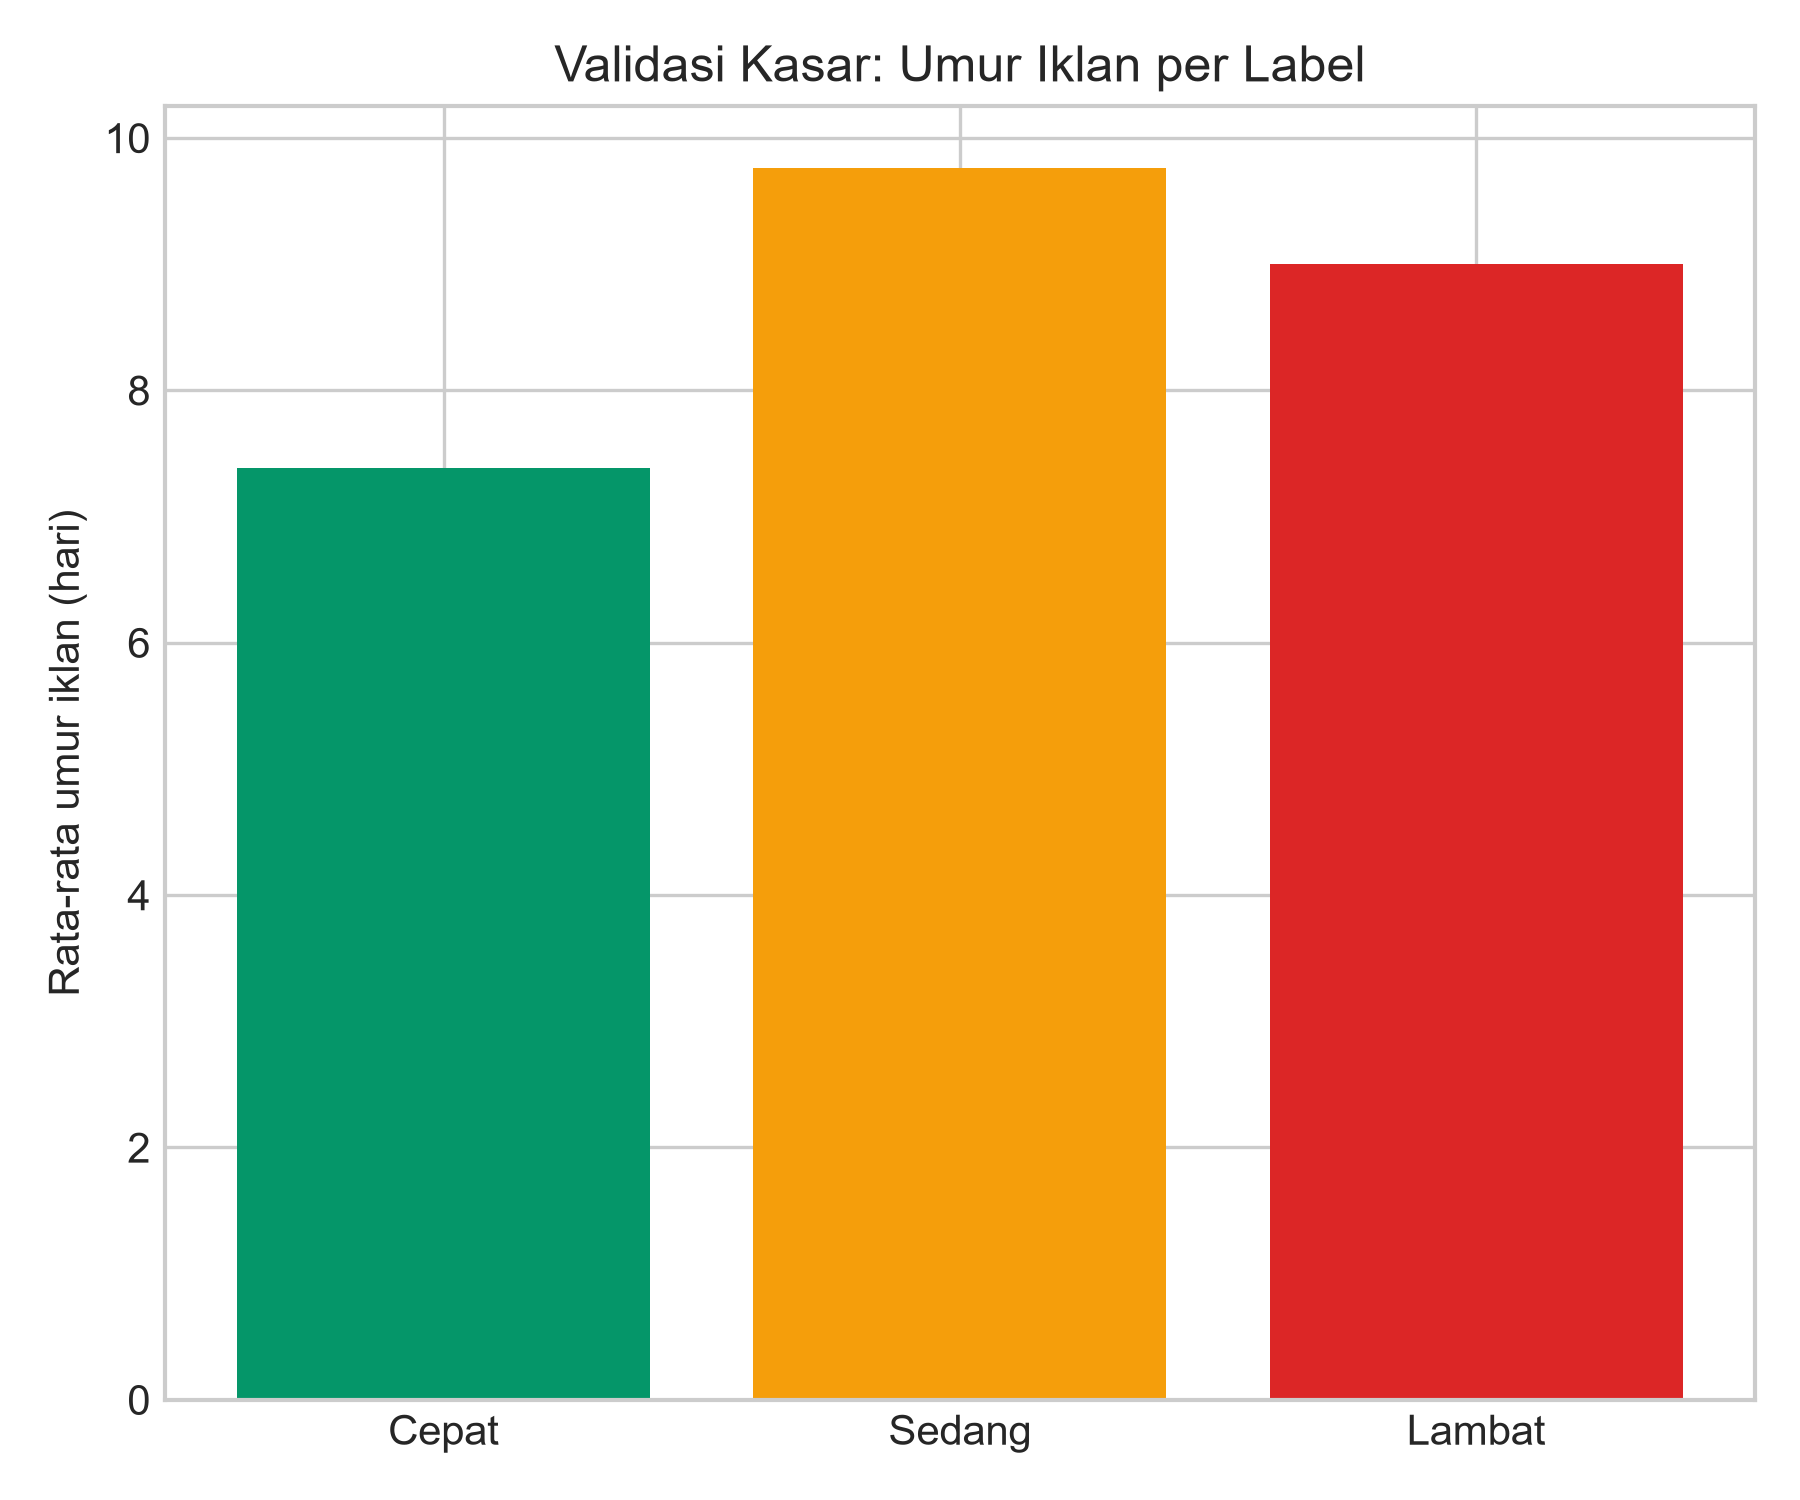
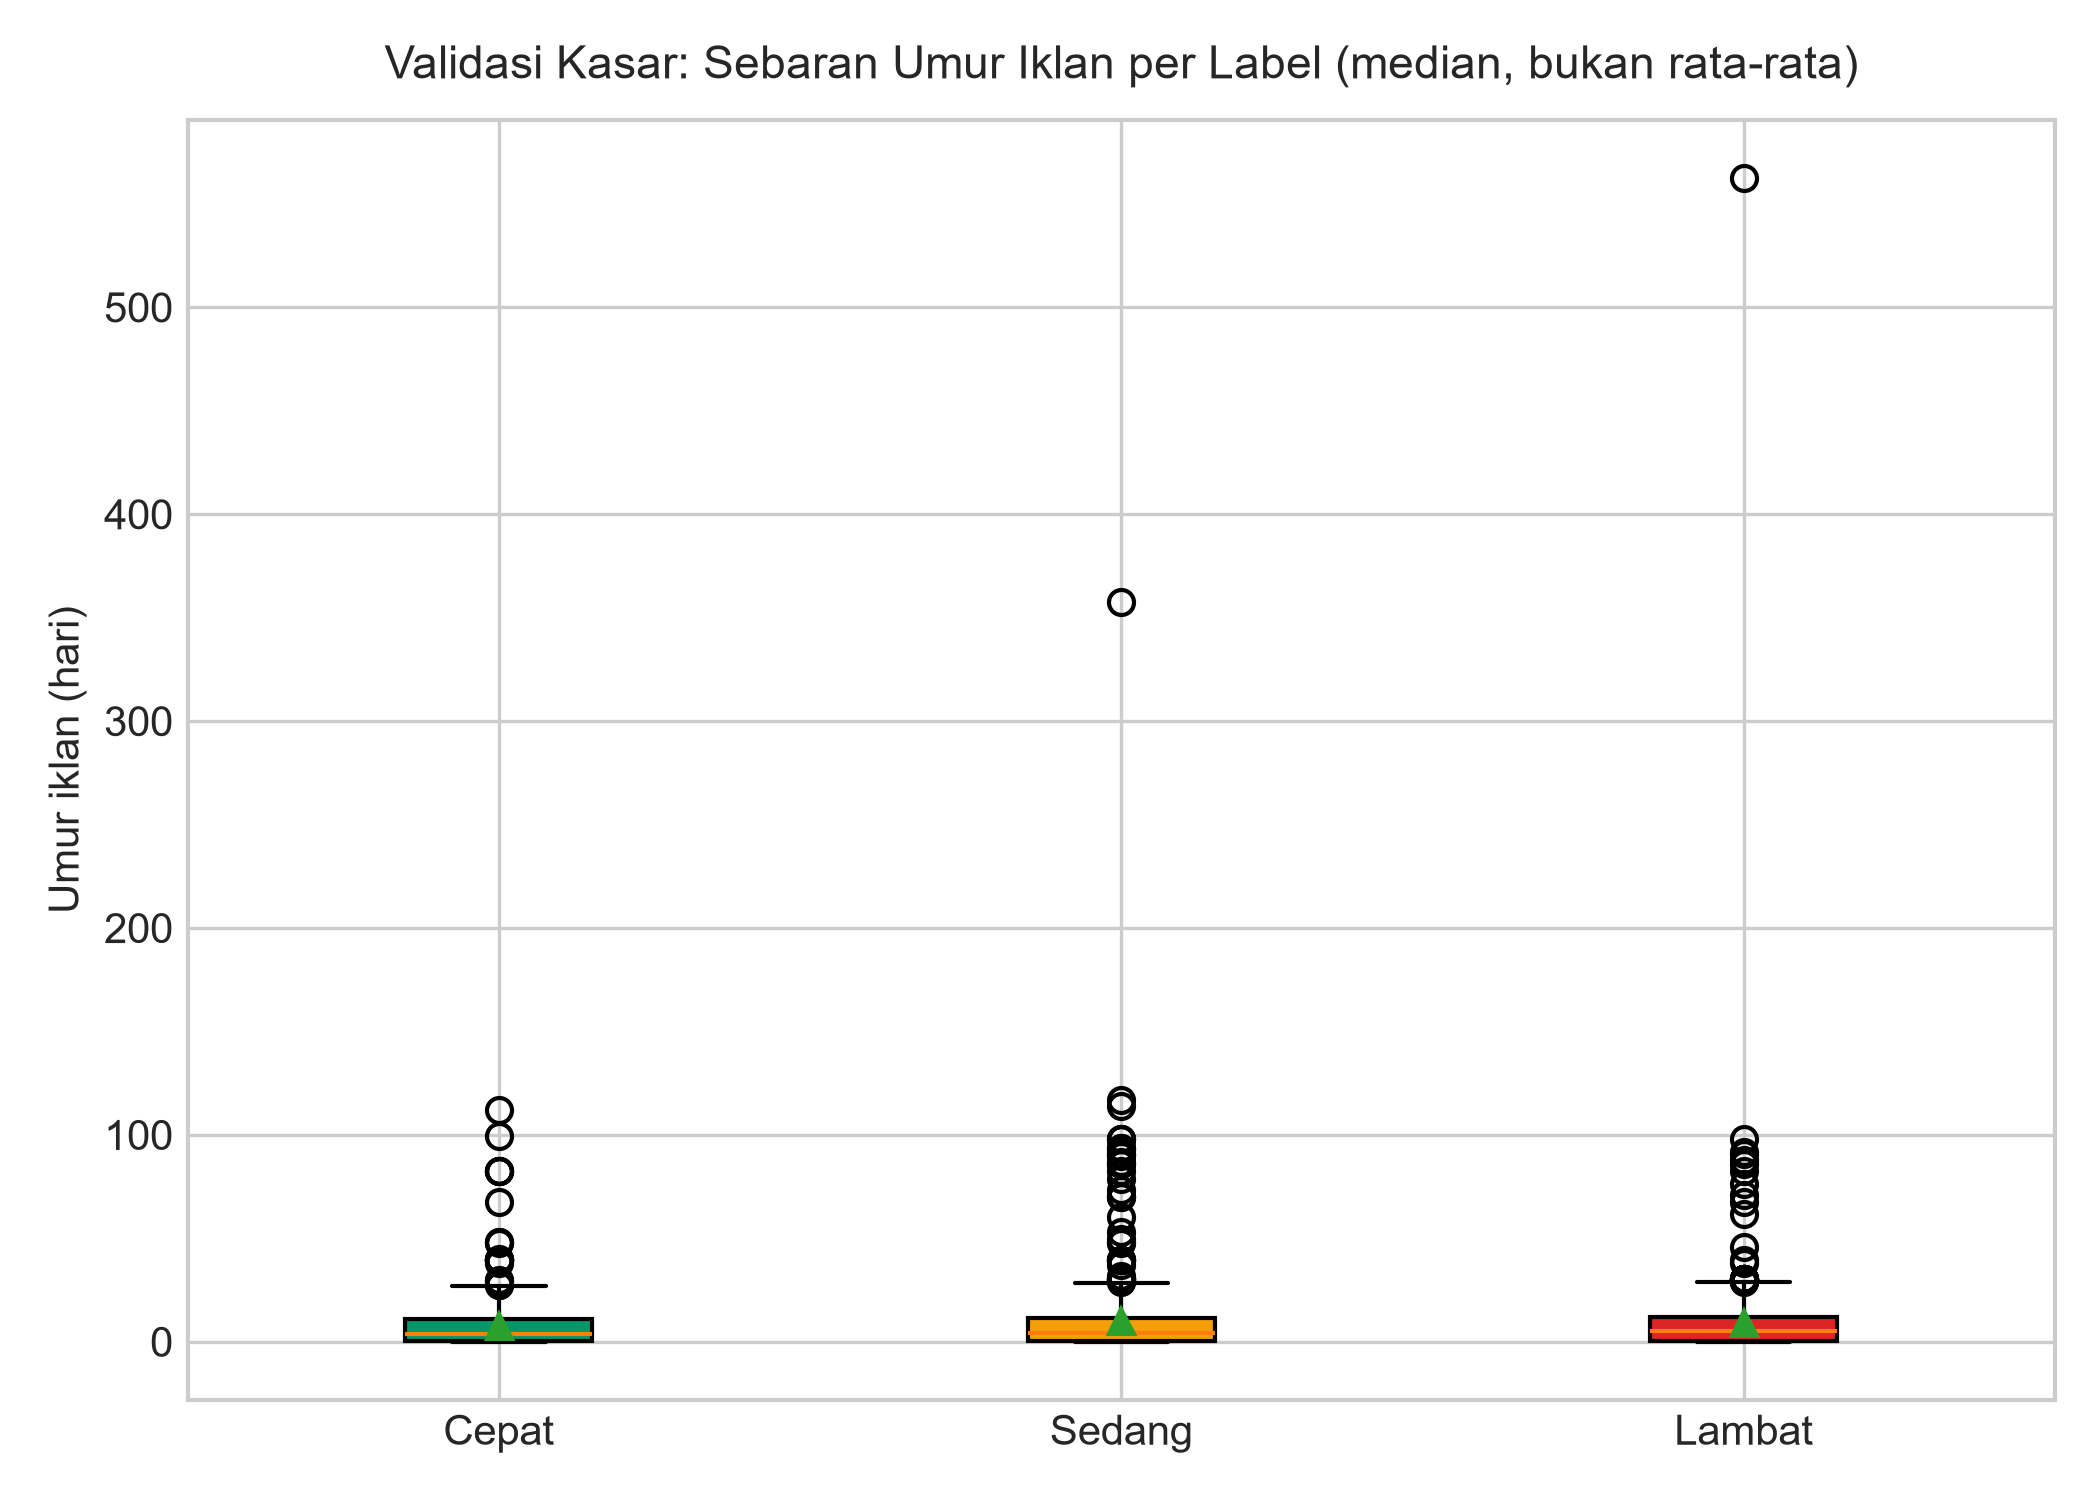
penambahan rmse dan mae ke train model

diff --git a/train_model_klasifikasi.py b/train_model_klasifikasi.py
@@ -34,9 +34,11 @@ from sklearn.compose import ColumnTransformer, TransformedTargetRegressor
 from sklearn.pipeline import Pipeline
 from sklearn.linear_model import LogisticRegression
 from sklearn.tree import DecisionTreeClassifier
+from sklearn.base import clone
 from sklearn.ensemble import GradientBoostingRegressor, RandomForestClassifier, GradientBoostingClassifier
 from sklearn.metrics import (accuracy_score, f1_score, precision_score, recall_score,
-                             confusion_matrix, classification_report, mean_absolute_percentage_error)
+                             confusion_matrix, classification_report, mean_absolute_percentage_error,
+                             mean_squared_error, mean_absolute_error, root_mean_squared_error)
 
 from processing import AMBANG_KEYAKINAN_SAMPEL, hitung_harga_wajar_fallback, klip_deviasi, DEVIASI_MIN, DEVIASI_MAX
 
@@ -92,7 +94,13 @@ df_model['sumber_harga_wajar'] = sumber
 
 mape_model = mean_absolute_percentage_error(df_model['harga'], df_model['harga_wajar_model']) * 100
 mape_final = mean_absolute_percentage_error(df_model['harga'], df_model['harga_wajar_final']) * 100
+mse_final = mean_squared_error(df_model['harga'], df_model['harga_wajar_final'])
+rmse_final = root_mean_squared_error(df_model['harga'], df_model['harga_wajar_final'])
+mae_final = mean_absolute_error(df_model['harga'], df_model['harga_wajar_final'])
 print(f"Galat rata-rata (MAPE) harga wajar: hanya model ML {mape_model:.1f}% -> model+fallback {mape_final:.1f}%")
+print(f"MAE  harga wajar (model+fallback) : Rp {mae_final:,.0f}")
+print(f"MSE  harga wajar (model+fallback) : {mse_final:,.0f}  (satuan Rupiah^2, sulit diinterpretasi langsung)")
+print(f"RMSE harga wajar (model+fallback) : Rp {rmse_final:,.0f}")
 print(df_model['sumber_harga_wajar'].value_counts().to_string())
 
 regresi_final = buat_regresor().fit(df_model[fitur_harga], df_model['harga'])
@@ -114,6 +122,12 @@ turun = ((df_model['status_likuiditas'] == "Cepat") & (df_model['km_per_tahun'] 
          & (df_model['ada_garansi'] == 'Tidak'))
 df_model.loc[turun, 'status_likuiditas'] = "Sedang"
 print(df_model['status_likuiditas'].value_counts().to_string())
+
+print("\n[CATATAN SIRKULARITAS] Label di atas dibentuk DARI deviasi_persen (+ penyesuaian "
+      "km/garansi). Karena deviasi_persen nanti juga dipakai sbg fitur classifier, akurasi "
+      "tinggi sebagian besar wajar terjadi (classifier menghafal ambang tertile sendiri), "
+      "BUKAN otomatis bukti prediksi cocok dgn realita pasar. Lihat UJI ABLATION di Tahap 3 "
+      "utk kuantifikasi seberapa besar pengaruh fitur ini.")
 
 # ============================================================
 # TAHAP 3: CLASSIFIER (dengan uji monotonisitas terhadap harga)
@@ -188,13 +202,66 @@ best_pipe, y_pred_best = pipes[best_name]
 print(f"\nModel terpilih: {best_name} (F1-macro terbaik di antara model yang monoton & tidak overconfident)")
 print(classification_report(y_test, y_pred_best, labels=LABEL_ORDER))
 
+# --- RMSE/MSE berbasis peringkat (ordinal) utk classifier ---
+# Label Cepat/Sedang/Lambat punya urutan alami (0/1/2). Accuracy & F1
+# menganggap semua kesalahan sama berat; RMSE peringkat mengukur SEBERAPA
+# JAUH kesalahannya (menebak Sedang padahal Cepat = galat 1, menebak
+# Lambat padahal Cepat = galat 2).
+rank_aktual = y_test.map(RANK).values
+rank_pred = pd.Series(y_pred_best).map(RANK).values
+mse_ordinal = mean_squared_error(rank_aktual, rank_pred)
+rmse_ordinal = root_mean_squared_error(rank_aktual, rank_pred)
+mae_ordinal = mean_absolute_error(rank_aktual, rank_pred)
+print(f"\nEvaluasi ordinal classifier ({best_name}), peringkat Cepat=0, Sedang=1, Lambat=2:")
+print(f"  MAE  peringkat  : {mae_ordinal:.4f}")
+print(f"  MSE  peringkat  : {mse_ordinal:.4f}")
+print(f"  RMSE peringkat  : {rmse_ordinal:.4f}  (0 = sempurna; >1 berarti rata-rata meleset >1 kelas)")
+
+# --- [BARU] UJI ABLATION: model sama, TANPA fitur deviasi_persen ---
+print(f"\nUji ablation ({best_name}, TANPA fitur deviasi_persen):")
+fitur_tanpa_deviasi = fitur_harga  # = fitur_kls dikurangi deviasi_persen
+clf_ablation = clone(kandidat[best_name])  # clone: jangan timpa objek yang dipakai best_pipe
+pipe_ablation = Pipeline([('prep', buat_prep(numerical_cols)), ('clf', clf_ablation)])
+pipe_ablation.fit(X_train[fitur_tanpa_deviasi], y_train)
+yp_ablation = pipe_ablation.predict(X_test[fitur_tanpa_deviasi])
+acc_ablation = accuracy_score(y_test, yp_ablation)
+f1_ablation = f1_score(y_test, yp_ablation, average='macro')
+acc_lengkap = accuracy_score(y_test, y_pred_best)
+f1_lengkap = f1_score(y_test, y_pred_best, average='macro')
+selisih_acc = acc_lengkap - acc_ablation
+print(f"  Dengan deviasi_persen    : accuracy {acc_lengkap:.4f} | F1-macro {f1_lengkap:.4f}")
+print(f"  Tanpa deviasi_persen     : accuracy {acc_ablation:.4f} | F1-macro {f1_ablation:.4f}")
+print(f"  Selisih accuracy         : {selisih_acc:+.4f}")
+if selisih_acc > 0.15:
+    print("  -> Penurunan besar: performa selama ini didominasi deviasi_persen, sesuai dugaan sirkularitas di atas.")
+else:
+    print("  -> Penurunan kecil: fitur lain (merek/model/km/garansi) juga berkontribusi nyata.")
+
+# RMSE/MSE ordinal utk SEMUA kandidat classifier, sbg pembanding di grafik & CSV
+for h, (nm, (p, yp)) in zip(hasil, pipes.items()):
+    rp = pd.Series(yp).map(RANK).values
+    h["RMSE_Ordinal"] = root_mean_squared_error(rank_aktual, rp)
+    h["MSE_Ordinal"] = mean_squared_error(rank_aktual, rp)
+df_metrik = pd.DataFrame(hasil)
+
 with open("model_klasifikasi_likuiditas.pkl", "wb") as f:
     pickle.dump(best_pipe, f)
 baris_terpilih = df_metrik[df_metrik["Model"] == best_name].iloc[0]
 meta = {"q33": float(q33), "q67": float(q67), "label_order": LABEL_ORDER, "model_klasifikasi": best_name,
         "rerata_keyakinan_puncak": round(float(baris_terpilih["Rerata_Keyakinan_Puncak"]), 4),
         "fitur_harga": fitur_harga, "fitur_klasifikasi": fitur_kls, "ambang_sampel": AMBANG_KEYAKINAN_SAMPEL,
-        "mape_harga_wajar_pct": round(mape_final, 2), "tanggal_latih": datetime.now().strftime("%Y-%m-%d")}
+        "mape_harga_wajar_pct": round(mape_final, 2),
+        "mae_harga_wajar_rupiah": round(mae_final, 0),
+        "mse_harga_wajar": round(mse_final, 0),
+        "rmse_harga_wajar_rupiah": round(rmse_final, 0),
+        "rmse_ordinal_classifier": round(float(baris_terpilih["RMSE_Ordinal"]), 4),
+        "mse_ordinal_classifier": round(float(baris_terpilih["MSE_Ordinal"]), 4),
+        "ablation_akurasi_dengan_deviasi": round(float(acc_lengkap), 4),
+        "ablation_akurasi_tanpa_deviasi": round(float(acc_ablation), 4),
+        "ablation_selisih_akurasi": round(float(selisih_acc), 4),
+        "catatan": "Label status_likuiditas dibentuk dari deviasi_persen, yang juga dipakai sbg "
+                   "fitur classifier -- akurasi tinggi sebagian bersifat sirkular, lihat ablation_*.",
+        "tanggal_latih": datetime.now().strftime("%Y-%m-%d")}
 json.dump(meta, open("autolaku_meta.json", "w"), indent=2)
 print("[SUKSES] Tersimpan: model_regresi_harga.pkl, model_klasifikasi_likuiditas.pkl, autolaku_meta.json")
 
@@ -209,6 +276,8 @@ rho, pval = spearmanr(df_model.loc[ok, 'deviasi_persen'], df_model.loc[ok, 'umur
 rata_umur = df_model[ok].groupby('status_likuiditas')['umur_iklan_hari'].mean().reindex(LABEL_ORDER)
 print(f"Korelasi Spearman deviasi harga vs umur iklan: rho={rho:.3f} (p={pval:.3g})")
 print("Rata-rata umur iklan (hari) per label:\n" + rata_umur.round(1).to_string())
+median_umur = df_model[ok].groupby('status_likuiditas')['umur_iklan_hari'].median().reindex(LABEL_ORDER)
+print("Median umur iklan (hari) per label:\n" + median_umur.round(1).to_string())
 print("Interpretasi: label 'Lambat' seharusnya beriklan lebih lama. Umur iklan hanyalah pendekatan "
       "(iklan bisa di-bump), bukan bukti terjual.")
 n_terjual = int((df_model['status_iklan_terjual'] == 'Terjual').sum()) if 'status_iklan_terjual' in df_model else 0
@@ -237,6 +306,20 @@ fig, ax = plt.subplots(figsize=(7, 5)); cnt = df_model['status_likuiditas'].valu
 ax.bar(cnt.index, cnt.values, color=["#059669", "#F59E0B", "#DC2626"]); ax.set_title("Distribusi Label Proxy (Tertile)")
 plt.tight_layout(); plt.savefig(os.path.join(OUTPUT_DIR, "3_distribusi_label_proxy.png"), dpi=300); plt.close(fig)
 
+# --- 3b. [BARU] Cek monotonisitas label: sebaran deviasi_persen per label ---
+fig, ax = plt.subplots(figsize=(7, 5))
+data_box = [df_model.loc[df_model['status_likuiditas'] == l, 'deviasi_persen'] for l in LABEL_ORDER]
+bp = ax.boxplot(data_box, patch_artist=True, showmeans=True)
+ax.set_xticks(range(1, len(LABEL_ORDER) + 1)); ax.set_xticklabels(LABEL_ORDER)
+for patch, warna in zip(bp['boxes'], ["#059669", "#F59E0B", "#DC2626"]):
+    patch.set_facecolor(warna)
+ax.axhline(q33, color="gray", linestyle="--", linewidth=1, label=f"Q33 ({q33:.1f}%)")
+ax.axhline(q67, color="gray", linestyle=":", linewidth=1, label=f"Q67 ({q67:.1f}%)")
+ax.set_ylabel("Deviasi Harga (%)")
+ax.set_title("Sebaran Deviasi Harga per Label (cek monotonisitas Cepat<Sedang<Lambat)", fontsize=11, pad=10)
+ax.legend()
+plt.tight_layout(); plt.savefig(os.path.join(OUTPUT_DIR, "9_deviasi_per_label.png"), dpi=300); plt.close(fig)
+
 clf_final = best_pipe.named_steps['clf']
 if hasattr(clf_final, "feature_importances_"):
     imp = pd.DataFrame({"Fitur": best_pipe.named_steps['prep'].get_feature_names_out(),
@@ -254,9 +337,35 @@ fig, ax = plt.subplots(figsize=(6, 5)); ax.bar([f"< {AMBANG_KEYAKINAN_SAMPEL}\n(
 ax.set_title("Akurasi per Kecukupan Sampel"); plt.tight_layout()
 plt.savefig(os.path.join(OUTPUT_DIR, "5_akurasi_per_kecukupan_sampel.png"), dpi=300); plt.close(fig)
 
-fig, ax = plt.subplots(figsize=(6, 5)); ax.bar(LABEL_ORDER, rata_umur.values, color=["#059669", "#F59E0B", "#DC2626"])
-ax.set_ylabel("Rata-rata umur iklan (hari)"); ax.set_title("Validasi Kasar: Umur Iklan per Label"); plt.tight_layout()
-plt.savefig(os.path.join(OUTPUT_DIR, "6_umur_iklan_per_label.png"), dpi=300); plt.close(fig)
+fig, ax = plt.subplots(figsize=(7, 5))
+data_umur = [df_model.loc[ok & (df_model['status_likuiditas'] == l), 'umur_iklan_hari'] for l in LABEL_ORDER]
+bp = ax.boxplot(data_umur, patch_artist=True, showmeans=True)
+ax.set_xticks(range(1, len(LABEL_ORDER) + 1)); ax.set_xticklabels(LABEL_ORDER)
+for patch, warna in zip(bp['boxes'], ["#059669", "#F59E0B", "#DC2626"]):
+    patch.set_facecolor(warna)
+ax.set_ylabel("Umur iklan (hari)")
+ax.set_title("Validasi Kasar: Sebaran Umur Iklan per Label (median, bukan rata-rata)", fontsize=11, pad=10)
+plt.tight_layout(); plt.savefig(os.path.join(OUTPUT_DIR, "6_umur_iklan_per_label.png"), dpi=300); plt.close(fig)
+
+# --- 7. [BARU] RMSE/MAE Harga Wajar (Rupiah, dibulatkan ke juta) ---
+fig, ax = plt.subplots(figsize=(6, 5))
+label_g = ["MAE", "RMSE"]; nilai_g = [mae_final / 1e6, rmse_final / 1e6]
+ax.bar(label_g, nilai_g, color=["#2563EB", "#DC2626"])
+ax.set_ylabel("Juta Rupiah")
+ax.set_title(f"Galat Model Harga Wajar (MAPE {mape_final:.1f}%)", fontsize=12, pad=10)
+for i, v in enumerate(nilai_g):
+    ax.text(i, v, f"Rp {v:,.1f} jt", ha="center", va="bottom", fontweight="bold")
+plt.tight_layout(); plt.savefig(os.path.join(OUTPUT_DIR, "7_mae_rmse_harga_wajar.png"), dpi=300); plt.close(fig)
+
+# --- 8. [BARU] RMSE Ordinal per Algoritma Classifier ---
+fig, ax = plt.subplots(figsize=(10, 5))
+ax.bar(df_metrik["Model"], df_metrik["RMSE_Ordinal"], color="#7C3AED")
+ax.set_ylabel("RMSE Ordinal (0 = sempurna)")
+ax.set_title("RMSE Ordinal per Algoritma (Cepat=0, Sedang=1, Lambat=2)", fontsize=12, pad=10)
+ax.set_xticklabels(df_metrik["Model"], rotation=15, ha="right")
+for i, v in enumerate(df_metrik["RMSE_Ordinal"]):
+    ax.text(i, v, f"{v:.3f}", ha="center", va="bottom", fontweight="bold")
+plt.tight_layout(); plt.savefig(os.path.join(OUTPUT_DIR, "8_rmse_ordinal_classifier.png"), dpi=300); plt.close(fig)
 
 df_metrik.to_csv(os.path.join(OUTPUT_DIR, "ringkasan_metrik_klasifikasi.csv"), index=False)
 print(f"[SELESAI] Grafik & ringkasan disimpan di '{OUTPUT_DIR}/'.")
